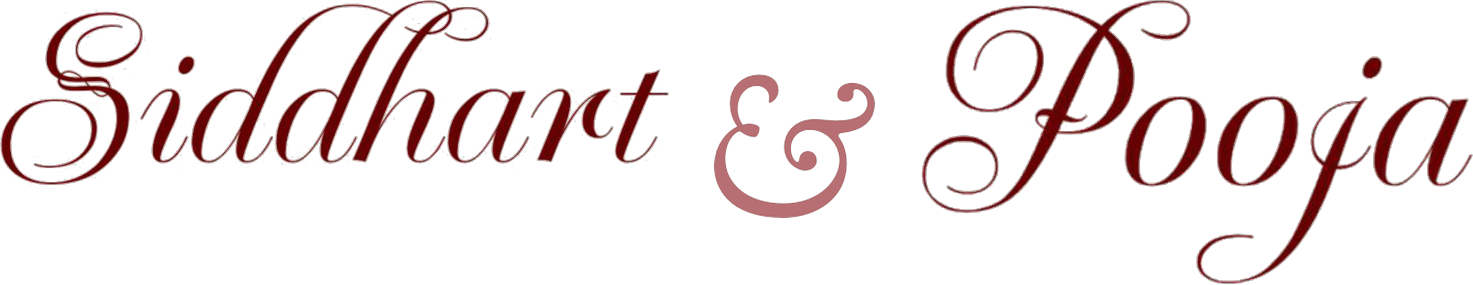
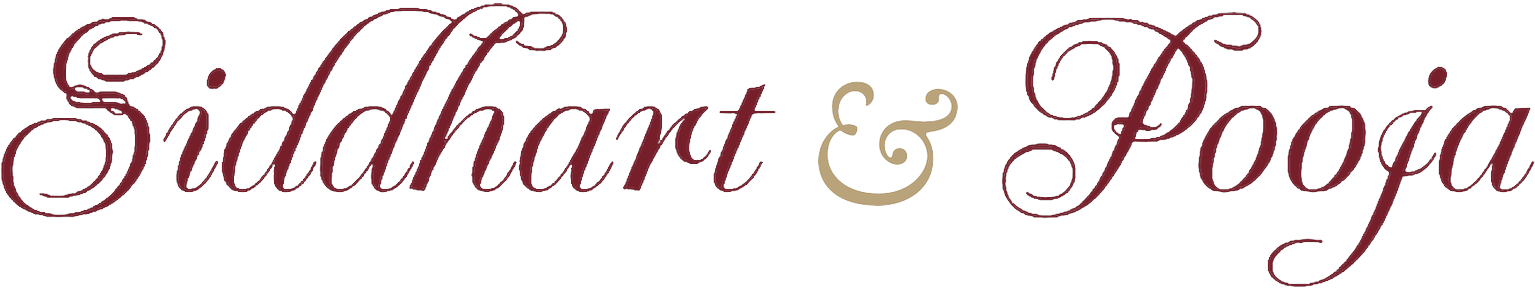
Use exact PDF calligraphy font with equalized x-height and baseline across all sections

Changed region(s): [[0.0, 0.0, 1.0, 1.0], [0.9056, 0.1965, 0.9681, 0.3088]]

diff --git a/src/components/IntroHero.tsx b/src/components/IntroHero.tsx
@@ -116,30 +116,38 @@ export function IntroHero({
             transition={{ duration: 0.6 }}
           />
 
-          {/* Groom & Bride Names - Visible, Grand & Equal Size */}
+          {/* Groom & Bride Names - Exact PDF Calligraphy, Large & Equal Size */}
           <motion.div
             className="flex flex-col items-center justify-center w-full max-w-sm sm:max-w-md"
             animate={showText ? { opacity: 1, y: 0 } : { opacity: 0, y: 12 }}
             transition={{ duration: 0.6, delay: 0.1 }}
           >
             {/* Siddhart */}
-            <h1 className="font-couple text-[#7c2635] text-4xl sm:text-5xl md:text-6xl font-normal leading-tight tracking-wide drop-shadow-sm my-0">
-              {coupleName1}
-            </h1>
+            <div className="h-11 sm:h-14 md:h-16 lg:h-20 flex items-center justify-center my-0.5">
+              <img
+                src={MEDIA.pdfSiddhart}
+                alt={coupleName1}
+                className="h-full w-auto object-contain select-none"
+              />
+            </div>
 
             {/* Gold Ampersand with Lateral Divider Lines */}
-            <div className="flex items-center justify-center w-full max-w-[190px] sm:max-w-[230px] my-1 sm:my-1.5">
-              <div className="h-px flex-1 bg-gradient-to-r from-transparent via-[#b88e44]/70 to-[#b88e44]/90" />
+            <div className="flex items-center justify-center w-44 sm:w-56 md:w-64 my-1 sm:my-1.5">
+              <div className="h-px flex-1 bg-gradient-to-r from-transparent via-[#b88e44]/75 to-[#b88e44]" />
               <span className="font-display text-[#b88e44] text-lg sm:text-xl md:text-2xl font-light px-3 leading-none">
                 &amp;
               </span>
-              <div className="h-px flex-1 bg-gradient-to-l from-transparent via-[#b88e44]/70 to-[#b88e44]/90" />
+              <div className="h-px flex-1 bg-gradient-to-l from-transparent via-[#b88e44]/75 to-[#b88e44]" />
             </div>
 
             {/* Pooja */}
-            <h1 className="font-couple text-[#7c2635] text-4xl sm:text-5xl md:text-6xl font-normal leading-tight tracking-wide drop-shadow-sm my-0">
-              {coupleName2}
-            </h1>
+            <div className="h-11 sm:h-14 md:h-16 lg:h-20 flex items-center justify-center my-0.5">
+              <img
+                src={MEDIA.pdfPooja}
+                alt={coupleName2}
+                className="h-full w-auto object-contain select-none"
+              />
+            </div>
           </motion.div>
         </div>
 

diff --git a/src/components/WelcomeSection.tsx b/src/components/WelcomeSection.tsx
@@ -1,6 +1,6 @@
 import React from "react";
 import { motion } from "framer-motion";
-import { WEDDING_CONFIG } from "../data/weddingConfig";
+import { MEDIA, WEDDING_CONFIG } from "../data/weddingConfig";
 
 function formatLineageColumn(text: string) {
   if (text.includes(" - ")) {
@@ -82,9 +82,11 @@ export function WelcomeSection() {
             {/* Groom Column */}
             <div className="flex flex-col items-center text-center px-0.5 sm:px-3 space-y-1.5">
               <div className="h-12 sm:h-16 md:h-20 flex items-center justify-center">
-                <h3 className="font-couple text-[#6e1d2a] text-4xl sm:text-5xl md:text-6xl font-normal leading-none tracking-normal select-none my-0">
-                  {WEDDING_CONFIG.couple_name_1}
-                </h3>
+                <img
+                  src={MEDIA.pdfSiddhart}
+                  alt={WEDDING_CONFIG.couple_name_1}
+                  className="h-full w-auto object-contain select-none"
+                />
               </div>
               <span className="font-serif text-[11px] sm:text-xs md:text-sm tracking-[0.28em] uppercase text-[#a3702c] font-medium">
                 G R O O M
@@ -114,9 +116,11 @@ export function WelcomeSection() {
             {/* Bride Column */}
             <div className="flex flex-col items-center text-center px-0.5 sm:px-3 space-y-1.5">
               <div className="h-12 sm:h-16 md:h-20 flex items-center justify-center">
-                <h3 className="font-couple text-[#6e1d2a] text-4xl sm:text-5xl md:text-6xl font-normal leading-none tracking-normal select-none my-0 translate-y-[2px]">
-                  {WEDDING_CONFIG.couple_name_2}
-                </h3>
+                <img
+                  src={MEDIA.pdfPooja}
+                  alt={WEDDING_CONFIG.couple_name_2}
+                  className="h-full w-auto object-contain select-none"
+                />
               </div>
               <span className="font-serif text-[11px] sm:text-xs md:text-sm tracking-[0.28em] uppercase text-[#a3702c] font-medium">
                 B R I D E

diff --git a/src/components/SwansWelcome.tsx b/src/components/SwansWelcome.tsx
@@ -20,20 +20,13 @@ export function SwansWelcome() {
           We Are Getting Married
         </p>
 
-        {/* Authentic Couple Names - Exact PDF Font (Runethia + Playfair Swash Ampersand) */}
-        <div className="flex items-baseline justify-center gap-2.5 sm:gap-3.5 my-1 sm:my-2">
-          <span className="font-couple text-[#7c2635] text-4xl sm:text-5xl md:text-6xl leading-none font-normal drop-shadow-sm">
-            {WEDDING_CONFIG.couple_name_1}
-          </span>
-          <span
-            style={{ fontFamily: '"Playfair Display", Georgia, serif', fontStyle: "normal" }}
-            className="text-[#b88e44] text-2xl sm:text-3xl md:text-4xl font-normal px-1 leading-none"
-          >
-            &amp;
-          </span>
-          <span className="font-couple text-[#7c2635] text-4xl sm:text-5xl md:text-6xl leading-none font-normal drop-shadow-sm translate-y-[2px]">
-            {WEDDING_CONFIG.couple_name_2}
-          </span>
+        {/* Authentic Couple Names - Exact PDF Font, Equal Size & Baseline Aligned */}
+        <div className="h-10 sm:h-14 md:h-16 flex items-center justify-center my-1.5 sm:my-2.5 px-2 max-w-full">
+          <img
+            src={MEDIA.pdfCouplePerfect}
+            alt={`${WEDDING_CONFIG.couple_name_1} & ${WEDDING_CONFIG.couple_name_2}`}
+            className="h-full w-auto max-w-[88vw] object-contain select-none"
+          />
         </div>
 
         {/* High-Visibility Wedding Dates - Clearly Visible Size & Contrast */}

diff --git a/src/data/weddingConfig.ts b/src/data/weddingConfig.ts
@@ -202,12 +202,12 @@ export const FAMILY_DETAILS = {
 export const MEDIA = {
   ganeshLogo: "/media/ganesh-ji-icon.png",
   coupleMonogram: "/media/ps-monogram-gold.png",
-  pdfSiddhart: "/media/pdf-siddhart-normalized.png",
-  pdfPooja: "/media/pdf-pooja-normalized.png",
-  pdfCouplePerfect: "/media/pdf-couple-script-perfect.png",
+  pdfSiddhart: "/media/pdf-siddhart-normalized.png?v=4",
+  pdfPooja: "/media/pdf-pooja-normalized.png?v=4",
+  pdfCouplePerfect: "/media/pdf-couple-script-perfect.png?v=4",
   pdfWeds: "/media/pdf-weds.png",
   pdfCoupleScript: "/media/pdf-couple-script-burgundy.png",
-  pdfCoupleBalanced: "/media/pdf-couple-script-perfect.png",
+  pdfCoupleBalanced: "/media/pdf-couple-script-perfect.png?v=4",
   shubhVivahCalligraphy: "/media/shubh-vivah-calligraphy.png",
   introDoorsPoster: "/media/intro-doors.jpg",
   introDoorsVideo: "/media/intro-doors-open.mp4",
